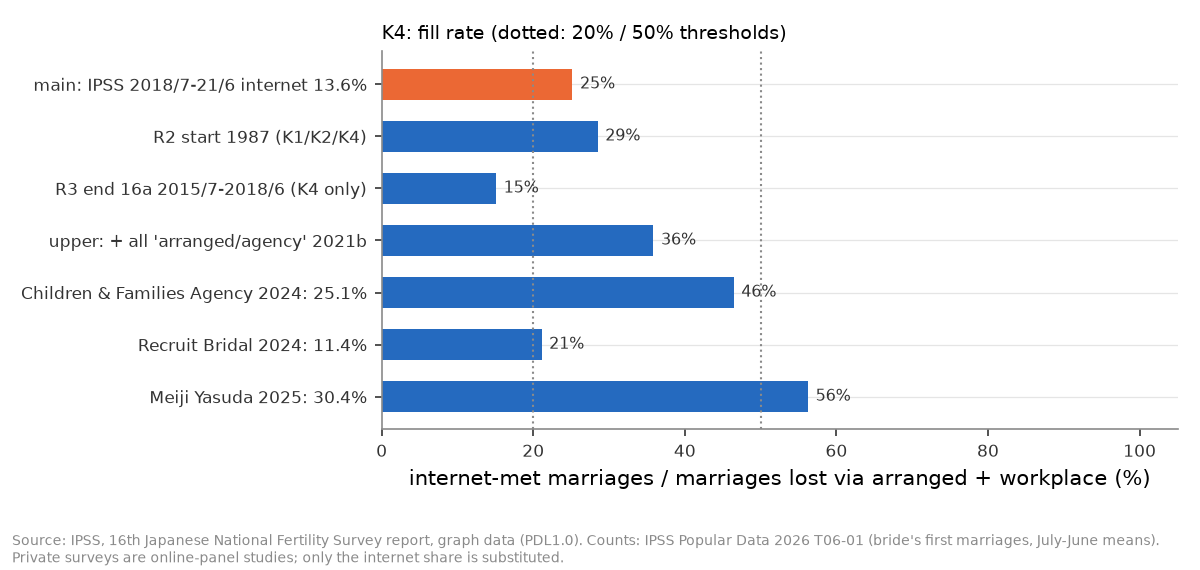
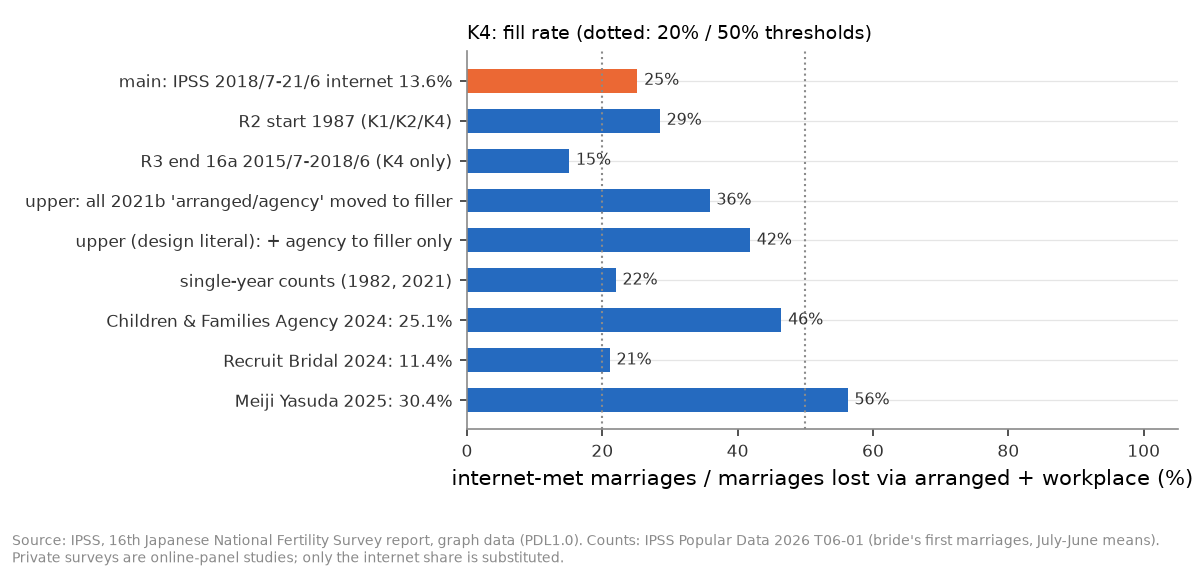
fix(growth-fertility): H12 方法論レビュー対応（K3 判定不能、到達型と主因の区別、補填率の表記と感度追加）
- K3 を「判定不能（第 2 条件は不成立、第 1 条件は測定不能）」に変更
- 要約・判定節で事前基準上の成立と「主／従」（文型の機械的出力）を区別、E1 の交際を望まない層の増加を明記
- 補填率を「約 4 分の 1（25%）」に（wari を最近傍の分数＋% に変更）
- 相談所込み上限の design 字義版 41.8%、単年値版 22.0% を追加、16a 終点で判定が変わる点と CI 未算出を判定節に
- めぐり会わないの割合の低下、民間調査の原典（未確認）を記録

Changed region(s): [[0.0308, 0.1193, 0.9558, 0.8053], [0.3392, 0.7754, 1.0, 0.8649], [0.3083, 0.0298, 0.74, 0.0895]]

diff --git a/themes/growth-fertility/src/theme_growth_fertility/analysis/a20261018_h12_why_marriage_left.py b/themes/growth-fertility/src/theme_growth_fertility/analysis/a20261018_h12_why_marriage_left.py
@@ -114,6 +114,7 @@ EXTERNAL = (
 )
 TYPE_JA = {"will": "意思の低下", "reach": "到達の失敗", "women": "女性側の評価の低下"}
 TYPE_ORDER = ("will", "reach", "women")
+K3_UNDETERMINED = "判定不能（第 2 条件は不成立、第 1 条件「結婚に利点がある」は測定不能）"
 
 
 # ---------------------------------------------------------------- pure helpers (tested)
@@ -196,9 +197,22 @@ def rank_types(sizes: Mapping[str, float], established: Iterable[str]) -> list[t
     return sorted(rows, key=lambda kv: (-kv[1], TYPE_ORDER.index(kv[0])))
 
 
+FRACTIONS = (
+    (1 / 10, "10 分の 1"),
+    (1 / 5, "5 分の 1"),
+    (1 / 4, "4 分の 1"),
+    (1 / 3, "3 分の 1"),
+    (1 / 2, "半分"),
+    (2 / 3, "3 分の 2"),
+    (3 / 4, "4 分の 3"),
+    (1.0, "全部"),
+)
+
+
 def wari(rate: float) -> str:
-    n = round(rate * 10)
-    return "1 割未満" if n == 0 else f"約 {n} 割"
+    """Nearest simple fraction with the percentage, e.g. 0.252 -> '約 4 分の 1（25%）'."""
+    _, name = min(FRACTIONS, key=lambda f: abs(f[0] - rate))
+    return f"約 {name}（{100 * rate:.0f}%）"
 
 
 def final_stance(ranked: Sequence[tuple[str, float]], rate: float) -> str:
@@ -325,13 +339,20 @@ def k4(
     *,
     net_override: float | None = None,
     upper: bool = False,
+    upper_numerator_only: bool = False,
+    single_year: bool = False,
 ) -> Fill:
     c0 = couples(att, *base)
     c1 = couples(att, *end)
     y0, y1 = PERIOD_YEARS[(str(base[0]), base[1])], PERIOD_YEARS[(str(end[0]), end[1])]
-    n0, n1 = period_mean(n_by_year, *y0), period_mean(n_by_year, *y1)
+    if single_year:  # survey years' single-year counts instead of July-June means
+        n0, n1 = n_by_year[y0[1]], n_by_year[y1[1]]
+    else:
+        n0, n1 = period_mean(n_by_year, *y0), period_mean(n_by_year, *y1)
     net1 = (net_override if net_override is not None else c1.get(NET, 0.0)) / 100
     moved = c1[OMIAI] / 100 if upper else 0.0
+    if upper_numerator_only:  # design literal: add agency (all 2021b omiai) to the filler only
+        net1 += c1[OMIAI] / 100
     return fill(sum(c0[k] for k in LOST) / 100, sum(c1[k] for k in LOST) / 100, net1, n0, n1, moved)
 
 
@@ -441,7 +462,11 @@ def compute(d: Mapping[str, pl.DataFrame]) -> H12Result:
             k4(att, n, (Y0, ""), (Y1, P16B), upper=True),
         ),
     ]
-    sens: list[tuple[str, Fill]] = [("upper (agency incl.)", robust[3].k4)]
+    sens: list[tuple[str, Fill]] = [
+        ("upper (agency incl.)", robust[3].k4),
+        ("upper literal", k4(att, n, (Y0, ""), (Y1, P16B), upper_numerator_only=True)),
+        ("single-year counts", k4(att, n, (Y0, ""), (Y1, P16B), single_year=True)),
+    ]
     for key, _label, share in EXTERNAL:
         sens.append((key, k4(att, n, (Y0, ""), (Y1, P16B), net_override=share)))
     return H12Result(main, robust, sens, n)
@@ -618,6 +643,8 @@ def section_k3(d: Mapping[str, pl.DataFrame], res: H12Result) -> None:
 
 
 def section_k4(res: H12Result) -> None:
+    status = "成立" if "women" in res.main.types else K3_UNDETERMINED
+    print(f"\n  K3 status: {status}")
     print("\n== K4 fill rate ==")
     f = res.main.k4
     print(f"  wife first marriages, annual mean: base {f.n0:,.0f}, 2021b {f.n1:,.0f}")
@@ -863,7 +890,9 @@ def fig_k4(res: H12Result, path: Path) -> None:
     items = [("main: IPSS 2018/7-21/6 internet 13.6%", res.main.k4.rate)]
     items += [(r.label, r.k4.rate) for r in res.robust if r.label.startswith(("R2", "R3"))]
     labels = {
-        "upper (agency incl.)": "upper: + all 'arranged/agency' 2021b",
+        "upper (agency incl.)": "upper: all 2021b 'arranged/agency' moved to filler",
+        "upper literal": "upper (design literal): + agency to filler only",
+        "single-year counts": "single-year counts (1982, 2021)",
         "cfa2024": "Children & Families Agency 2024: 25.1%",
         "recruit2024": "Recruit Bridal 2024: 11.4%",
         "meiji2025": "Meiji Yasuda 2025: 30.4%",

diff --git a/themes/growth-fertility/src/theme_growth_fertility/analysis/s20261018_h12_summary.py b/themes/growth-fertility/src/theme_growth_fertility/analysis/s20261018_h12_summary.py
@@ -278,7 +278,8 @@ def fig5_fill(res: h12.H12Result, path: Path) -> list[tuple[str, float]]:
     sens = dict(res.k4_sens)
     items = [
         ("本体（出生動向基本調査、ネット 13.6%）", res.main.k4.rate),
-        ("上限（見合い・相談所を全部ネット側へ）", sens["upper (agency incl.)"].rate),
+        ("上限（見合い・相談所を損失から除き補填へ）", sens["upper (agency incl.)"].rate),
+        ("上限（見合い・相談所を補填に足すだけ）", sens["upper literal"].rate),
         ("こども家庭庁 2024（アプリ 25.1%）", sens["cfa2024"].rate),
         ("リクルート 2024（ネット系 11.4%）", sens["recruit2024"].rate),
         ("明治安田 2025（アプリ 30.4%）", sens["meiji2025"].rate),
@@ -297,7 +298,7 @@ def fig5_fill(res: h12.H12Result, path: Path) -> list[tuple[str, float]]:
     ax.set_xlabel("ネットで出会った結婚 ÷ 見合い・職場経由で減った結婚（年あたり件数、%）")
     base._style(ax)
     fig.suptitle(
-        "見合い・職場で減った結婚のうち、ネットが補ったのは 2〜5 割（本体は 25%）",
+        "見合い・職場で減った結婚のうち、ネットが補ったのは約 4 分の 1（25%）",
         fontsize=11,
         x=0.01,
         ha="left",
@@ -379,7 +380,8 @@ def run(data_dir: Path, fig_dir: Path) -> list[tuple[str, str]]:
         (
             "h12s05_fill_rate.png",
             f"見合い・職場経由で減った結婚は年 {m.loss:,.0f} 件、ネット経由は年 {m.filled:,.0f} 件で、補填率は "  # noqa: E501
-            f"{100 * m.rate:.0f}%（事前の基準で「部分的」）。感度の 4 版は "
+            f"{h12.wari(m.rate)}（事前の基準で「部分的」。CI は未算出）。"
+            "終点を 2015/7〜18/6 にすると 15% で「補われていない」に変わる。感度の各版は "
             + "、".join(f"{100 * r:.0f}%" for _, r in items[1:])
             + "。",
         )

diff --git a/themes/growth-fertility/tests/test_analysis_h12.py b/themes/growth-fertility/tests/test_analysis_h12.py
@@ -69,7 +69,7 @@ def test_rank_and_final_stance() -> None:
     s = h12.final_stance(h12.rank_types({"reach": 34.1, "will": 9.9}, {"reach"}), 0.27)
     assert s.startswith("結婚が外れた背景は到達の失敗が主で（変化幅 34.1 ポイント）")
     assert "意思の低下・女性側の評価の低下は従である" in s
-    assert s.endswith("ネット経由が補ったのは約 3 割である")
+    assert s.endswith("ネット経由が補ったのは約 4 分の 1（27%）である")
     none = h12.final_stance([], 0.1)
     assert none.startswith("意思も到達も評価も、測った指標では大きく動いていない")
 
@@ -79,3 +79,8 @@ def test_pooled_share() -> None:
     p, lo, hi = h12.pooled(df)
     assert p == pytest.approx(70.0)
     assert lo < 70 < hi
+
+
+def test_wari_nearest_fraction() -> None:
+    assert h12.wari(0.252) == "約 4 分の 1（25%）"
+    assert h12.wari(0.56) == "約 半分（56%）"

diff --git a/themes/growth-fertility/reports/2026-10-18-h12-why-marriage-left.md b/themes/growth-fertility/reports/2026-10-18-h12-why-marriage-left.md
@@ -1,11 +1,11 @@
 # H12: 日本で「結婚という選択」が外れた背景は何か。アプリは仲介の消失を補っているか（2026-10-18, theme: growth-fertility）
 
 ## 要約（5 行）
-- 事前の判定は**到達失敗型だけが成立**した。最終スタンス（事前の文型）は「結婚が外れた背景は到達の失敗が主で（変化幅 34.1 ポイント）、意思の低下・女性側の評価の低下は従である。見合い・職場経由で失われた結婚のうち、ネット経由が補ったのは約 3 割である」。
+- 事前の基準の上で成立したのは**到達失敗型だけ**（意思低下型は不成立、女性側型は**判定不能**）。以下の最終スタンスは事前の文型に結果を機械的に入れたもので、「主／従」は文型の出力であり、到達の失敗が主因であることを示したものではない。「結婚が外れた背景は到達の失敗が主で（変化幅 34.1 ポイント）、意思の低下・女性側の評価の低下は従である。見合い・職場経由で失われた結婚のうち、ネット経由が補ったのは約 4 分の 1（25%）である」。ただし女性側の評価は主指標を測れておらず判定不能、意思は男性で基準超・女性で基準に 0.1 ポイント届かずの境目。
 - K1 意思: 「いずれ結婚するつもり」（未婚 18–34 歳）は男性 95.9 → 81.4%（−14.5）、女性 94.2 → 84.3%（−9.9）。どちらも 95% CI は重ならないが、**女性は事前の基準（10 ポイント）に 0.1 ポイント届かず**、意思低下型は不成立。「一生結婚するつもりはない」は男性 2.3 → 17.3%、女性 4.1 → 14.6% に増えた。NHK「結婚するのが当然」（16 歳以上の一般人口）は 45 → 27%（1993 → 2018）。基準の境目の結果なので、「意思は保たれている」とは書かない。
-- K2 到達: 交際相手なしは男性 36.8 → 72.1%（+35.3）、女性 30.1 → 64.2%（+34.1）。独身の理由の 1 位は 1992 年から毎回「適当な相手にまだめぐり会わない」（2021 年 25–34 歳で男 43.3%・女 48.1%）。夫婦の出会いのうち見合い＋職場は 54.7 → 30.4%（−24.3）。**ただし探索的な内訳（E1）では、2010 → 2021 年に「交際相手なし・交際を望む」は男 32.6 → 31.5%、女 25.7 → 24.6% とほぼ横ばいで、増えたのは「交際を望まない」（男 27.6 → 33.5、女 22.6 → 34.1）。** 交際相手なしの増加には、到達の失敗だけでなく意思の側の変化が含まれる。
-- K3 女性側: 結婚の利点に「経済的に余裕がもてる」を挙げる女性は 7.0 → 21.0%（1987 → 2021）に**上がった**ので不成立。「結婚に利点がある」割合（利点なしの補数）は、グラフデータに「利点はない」の選択肢が無いため**測定できなかった**。
-- K4 補填率: 見合い・職場経由の結婚は年 249,916 件減り、ネット経由は年 62,899 件で、補填率は **25%（部分的）**。感度は 21〜56%（明治安田の 30.4% を代入した版だけ「補われている」）。終点を 2015/7–2018/6 にすると 15%（補われていない）に下がる。すべて記述統計の比較で、因果効果ではない。
+- K2 到達: 交際相手なしは男性 36.8 → 72.1%（+35.3）、女性 30.1 → 64.2%（+34.1）。独身の理由の 1 位は 1992 年から毎回「適当な相手にまだめぐり会わない」（2021 年 25–34 歳で男 43.3%・女 48.1%）。夫婦の出会いのうち見合い＋職場は 54.7 → 30.4%（−24.3）。**ただし探索的な内訳（E1）では、2010 → 2021 年に「交際相手なし・交際を望む」は男 32.6 → 31.5%、女 25.7 → 24.6% とほぼ横ばいで、増えたのは「交際を望まない」（男 27.6 → 33.5、女 22.6 → 34.1）。** **主指標（交際相手なし）の 2010 年以降の増加は交際を望まない層の増加で、到達の失敗と意思の変化は区別できない。**「到達失敗型が事前基準上成立した」ことと「到達の失敗が主である」ことは別で、後者は示していない。「めぐり会わない」の割合自体も 1992 → 2021 に男 53.5 → 43.3、女 55.3 → 48.1 と下がった。
+- K3 女性側: 結婚の利点に「経済的に余裕がもてる」を挙げる女性は 7.0 → 21.0%（1987 → 2021）に**上がった**ので第 2 条件は不成立。第 1 条件の「結婚に利点がある」割合（利点なしの補数）は、グラフデータに「利点はない」の選択肢が無いため**測定できなかった**。K3 は**判定不能**（第 2 条件は不成立、第 1 条件は測定不能）。
+- K4 補填率: 見合い・職場経由の結婚は年 249,916 件減り、ネット経由は年 62,899 件で、補填率は **約 4 分の 1（25%、部分的。CI は未算出）**。感度は 21〜56%（相談所込み上限は 2 通りで 35.9% と 41.8%、単年値版 22.0%。明治安田の 30.4% を代入した版だけ「補われている」）。終点を 2015/7–2018/6 にすると 15%（補われていない）に下がる。すべて記述統計の比較で、因果効果ではない。
 
 ## 問いと仮説
 `design/themes/growth-fertility.md` の「### H12（事後追加 2026-10-18）」。part6 の読み（日本の未婚化は経済条件では説明できず、「結婚という選択そのものから人々が離れた」）の背景を、3 つの読みで比べる。(a) 意思の低下、(b) 到達の失敗（出会い・仲介の消失）、(c) 女性側の評価の低下。付随して、ネット経由の結婚が見合い・職場経由の減少をどれだけ補ったか（K4）を測る。
@@ -21,7 +21,7 @@
 - 型の「変化幅」（順位と文型の X）は、判定に使う指標の男女のうち小さい方の絶対値とする（「男女とも」の条件を縛る側）。
 - 「めぐり会わない」の首位は 2021 年の 25–34 歳で男女それぞれ判定する（この設問は 1992 年から。母集団は結婚する意思のある未婚者）。
 - K4 の件数は 7 月〜6 月の期間平均（第 8 回は 1977/7–1982/6 として 1977・1982 年を半分の重み）。構成比は「不詳」を含む分母の割合をそのまま使い、第 8 回の「ネット」は 0。
-- 結婚相談所込みの上限は、2021b の「見合い結婚」（結婚相談所を含む）を全部相談所とみなして補填側へ移す（損失側からも同じ件数を除くので、補填率 = (ネット＋c)/(損失＋c)）。
+- 結婚相談所込みの上限は 2 通り併記する。(i) 2021b の「見合い結婚」（結婚相談所を含む）を全部相談所とみなして補填側へ移し、損失側からも同じ件数を除く（補填率 = (ネット＋c)/(損失＋c)、35.9%）。(ii) design の字義どおり分子（補填）にだけ加える（(ネット＋c)/損失、41.8%）。
 - 民間調査の代入版は「ネット」の構成比だけを置き換え、件数と損失は本体と同じ。
 - 25–34 歳の頑健性は 25–29・30–34 歳の度数を合算し、CI は単純無作為の近似（主仕様の CI は報告書の値）。
 
@@ -83,13 +83,15 @@ NHK「結婚するのが当然」（16 歳以上）: 全体 45 → 38 → 36 →
 
 相手の条件「経済力」を重視する女性は 33.6（1992）→ 42.0（2010）→ 36.3%（2021）、重視＋考慮は 88.7 → 91.6%。男性が相手の女性の経済力を考慮する割合は 23.3 → 43.5% に上がった。
 
-女性の「経済的に余裕」は低下ではなく上昇で、第 2 条件は満たさない。第 1 条件は測定不能。**女性側型は不成立**（測った範囲で）。女性で下がった項目は「愛情を感じている人と暮らせる」（−9.3）と「精神的な安らぎ」（−6.7）だが、事前の判定指標ではない。
+女性の「経済的に余裕」は低下ではなく上昇で、第 2 条件は満たさない。第 1 条件は測定不能。**K3 は判定不能**（第 2 条件は不成立、第 1 条件は測定不能）。女性で下がった項目は「愛情を感じている人と暮らせる」（−9.3）と「精神的な安らぎ」（−6.7）だが、事前の判定指標ではない。
 
 ### K4 補填率（`figures/h12_k4_fill_rate.png`）
 | 版 | 損失（件／年） | 補填（件／年） | 補填率 | 判定 |
 |---|---|---|---|---|
 | **本体**（5_2_2 第 8 回 → 第 16 回 b、ネット 13.6%） | 249,916 | 62,899 | **25.2%** | **部分的** |
-| 上限: 2021b の見合い（相談所を含む）9.0% を全部補填側へ | 291,540 | 104,524 | 35.9% | 部分的 |
+| 上限 (i): 2021b の見合い（相談所を含む）9.0% を損失から除き補填側へ | 291,540 | 104,524 | 35.9% | 部分的 |
+| 上限 (ii): 同 9.0% を補填にだけ加える（design の字義） | 249,916 | 104,524 | 41.8% | 部分的 |
+| 単年値（妻初婚 1982 年 704,840、2021 年 417,783） | 258,541 | 56,818 | 22.0% | 部分的 |
 | こども家庭庁 25.1% を代入 | 249,916 | 116,086 | 46.5% | 部分的 |
 | リクルート 11.4% を代入 | 249,916 | 52,724 | 21.1% | 部分的 |
 | 明治安田 30.4% を代入 | 249,916 | 140,598 | 56.3% | 補われている |
@@ -97,10 +99,12 @@ NHK「結婚するのが当然」（16 歳以上）: 全体 45 → 38 → 36 →
 件数の年平均: 1977/7–1982/6 713,920、2018/7–2021/6 462,495（妻初婚）。見合い＋職場の件数は 1982 年の年 390,514 件（54.7% × 713,920）から 2021b の年 140,598 件（30.4% × 462,495）へ減った。
 
 ### 判定
-- 成立した型: **到達の失敗のみ**（変化幅 34.1 ポイント = 交際相手なしの男女のうち小さい方）。参考の変化幅: 意思 9.9（女性。基準未満）、女性側の経済的余裕 −14.0（上昇）。
-- K4: 25.2% で **部分的**。
-- **最終スタンス（事前の文型を機械的に埋めたもの）**: 「結婚が外れた背景は到達の失敗が主で（変化幅 34.1 ポイント）、意思の低下・女性側の評価の低下は従である。見合い・職場経由で失われた結婚のうち、ネット経由が補ったのは約 3 割である」。
-- 文型の限定: (1) 「意思の低下は従」は、女性の低下 9.9 ポイントが基準 10 にわずかに届かなかったことによる。男性は −14.5 で基準を超え、「一生結婚するつもりはない」は男性で 7.5 倍、女性で 3.6 倍になった。意思の変化が小さいとは言えない。(2) 交際相手なしの増加の 2010 年以降の部分は「交際を望まない」の増加で（E1）、到達失敗型の主指標には意思の側の変化が混ざる。(3) 「女性側の評価の低下は従」は、測れた指標で女性の評価が下がっていない（経済的余裕はむしろ上がった）ことを指し、「利点がある」割合は測れていない。(4) 補填率は 25%（約 3 割は四捨五入）で、終点・代入値により 15〜56% と幅がある。
+- 事前基準の上で成立した型: **到達の失敗のみ**。意思低下型は不成立（女性 −9.9、基準 10）、女性側型は**判定不能**（第 2 条件は不成立、第 1 条件「結婚に利点がある」は測定不能）。
+- 変化幅: 到達 34.1 ポイント（交際相手なしの男女のうち小さい方）。参考の変化幅: 意思 9.9（女性。基準未満）、女性側の経済的余裕 −14.0（上昇）。
+- K4: 25.2% で **部分的**。ただし終点を第 16 回 a（2015/7–2018/6）にすると 15.1% となり「補われていない」に判定が変わる。補填率の CI は算出していない。
+- **最終スタンス（事前の文型を機械的に埋めたもの）**: 「結婚が外れた背景は到達の失敗が主で（変化幅 34.1 ポイント）、意思の低下・女性側の評価の低下は従である。見合い・職場経由で失われた結婚のうち、ネット経由が補ったのは約 4 分の 1（25%）である」。
+- **ただし女性側の評価は主指標を測れておらず判定不能、意思は男性で基準超・女性で基準に 0.1 ポイント届かずの境目。**「主／従」は文型の機械的な出力で、到達失敗型が事前基準上成立したことと、到達の失敗が結婚の減少の主因であることは別である（後者は示していない）。主指標（交際相手なし）の 2010 年以降の増加は交際を望まない層の増加で、到達の失敗と意思の変化は区別できない。
+- 文型の限定: (1) 「意思の低下は従」は、女性の低下 9.9 ポイントが基準 10 にわずかに届かなかったことによる。男性は −14.5 で基準を超え、「一生結婚するつもりはない」は男性で 7.5 倍、女性で 3.6 倍になった。意思の変化が小さいとは言えない。(2) 交際相手なしの増加の 2010 年以降の部分は「交際を望まない」の増加で（E1）、到達失敗型の主指標には意思の側の変化が混ざる。(3) 「女性側の評価の低下は従」は、測れた指標で女性の評価が下がっていない（経済的余裕はむしろ上がった）ことを指し、「利点がある」割合は測れていない。(4) 補填率は 25%（約 4 分の 1）で、終点・代入値により 15〜56% と幅がある。(5) 「めぐり会わない」は首位だが、割合は 1992 → 2021 に男 53.5 → 43.3、女 55.3 → 48.1 と下がった。
 
 ## 頑健性（事前リストを全部）
 | 仕様 | K1（男 / 女） | K2 交際相手なし（男 / 女） | K4 補填率 | 成立した型・K4 判定 |
@@ -110,7 +114,8 @@ NHK「結婚するのが当然」（16 歳以上）: 全体 45 → 38 → 36 →
 | R2 第 9 回（1987）起点 | −10.4 / −8.6 | +23.5 / +24.7 | 28.5% | 到達のみ・部分的 |
 | R3 第 16 回 a（2015/7–2018/6）終点（K4 のみ。K1〜K3 に a/b の区別はない） | 主と同じ | 主と同じ | **15.1%** | 到達のみ・**補われていない** |
 | R4 NHK を一般人口の補強として併記 | 「結婚するのが当然」45 → 27%（男 51 → 35、女 39 → 20） | — | — | 判定には使わない |
-| R5 結婚相談所込みの上限 | 主と同じ | 主と同じ | 35.9% | 到達のみ・部分的 |
+| R5 結婚相談所込みの上限 (i) 損失から除き補填へ | 主と同じ | 主と同じ | 35.9% | 到達のみ・部分的 |
+| R5 結婚相談所込みの上限 (ii) design 字義どおり補填にだけ加える | 主と同じ | 主と同じ | 41.8% | 到達のみ・部分的 |
 
 型の判定（到達失敗型のみ）はどの仕様でも変わらない。**K4 の判定は終点を 2015/7–2018/6 にすると「補われていない」に変わる**（ネット 6.0%、見合い＋職場 36.8%）。2018/7–2021/6 はコロナ下の婚姻減の時期で、構成比の上昇は件数の増加と同じではない（IPSS 注記）。ネットの比重が 3 年で倍になった時期の端点なので、補填率は終点の選び方に強く依存する。25–34 歳に限ると女性の意思の低下は −5.1 で、意思低下型からさらに遠くなる。
 
@@ -123,6 +128,7 @@ NHK「結婚するのが当然」（16 歳以上）: 全体 45 → 38 → 36 →
 - **質問文・選択肢の変更**: 「ネットで」は第 16 回で新設（第 11〜15 回の「メディアを通じて」は自由記述の事後分類で、ネット経由の一部はそこや「友人を通じて」等に入っていた可能性がある）。第 16 回の「見合い結婚」は結婚相談所（オンラインを含む）を含む。「アルバイトで」は第 10 回から。交際希望の設問は第 14 回（2010）から。
 - **社会的望ましさ**: 結婚の意思・利点・独身の理由は、規範に沿った回答や答えやすい理由（「めぐり会わない」）を含みうる。「めぐり会わない」が首位であることは、出会いの機会が実際に減ったことの直接の証拠ではない。
 - **測れなかった指標**: 「結婚に利点がある」（利点なしの補数）はグラフデータに無く、K3 の第 1 条件は判定していない。女性側の評価の低下が無かったとは言えず、「測った指標では下がっていない」までしか言えない。
+- **民間調査の原典**: こども家庭庁「若者のライフデザインや出会いに関する意識調査」（2024、https://www.cfa.go.jp/ 内の公表ページ）、リクルートブライダル総研「婚活実態調査 2024」、明治安田生命「いい夫婦の日」に関するアンケート調査（2025）。各公表ページの URL と数値は本 PR では**未確認**（依頼文の引用値を使用）。
 - **民間調査の標本**: リクルート・明治安田（とこども家庭庁の調査も）はインターネット・モニター調査で、出生動向基本調査（無作為抽出）と標本設計が違い、アプリ利用者が多く含まれる偏りがありうる。対象期間（直近 5 年婚 / 2023 年婚姻者 / 1 年以内婚）と定義（アプリ / ネット系サービス）も 5_2_2 と違う。代入値は依頼文に示された引用で、本 PR では原典を再確認していない。
 - **K4 の構成**: 構成比 × 件数は、各期間の夫婦の構成が初婚件数全体に当てはまると仮定する（5_2_2 は妻 50 歳未満の初婚どうし等の調査対象に限られ、再婚を含まない）。損失は「見合い・職場で結婚したはずの人」の数ではなく経路別件数の差で、補填率は置き換えの割合ではない。2021b はコロナ下の 3 年で、1 回の調査の標本（b は 400 組程度、ネット 54 組）なので標本誤差が大きい（CI は算出していない）。
 - **母集団の違い**: K1〜K3 は 18–34 歳の未婚者、K4 は結婚した夫婦、NHK は 16 歳以上の一般人口。調査の間で比べた変化を同じ人々の変化として読まない。個人の行動の理由をこれらの集計から推論していない。

diff --git a/themes/growth-fertility/reports/figures/summary_h12/captions.md b/themes/growth-fertility/reports/figures/summary_h12/captions.md
@@ -10,4 +10,4 @@ NHK放送文化研究所「日本人の意識」調査（https://www.nhk.or.jp/b
 - `h12s02_no_partner.png`: 交際相手がいない未婚者は男性 36.8% → 72.1%（+35.3）、女性 30.1% → 64.2%（+34.1）。2010→2021 年に「交際を望む」はほぼ横ばいで、増えたのは「望まない」。独身の理由の 1 位は 1992 年以降毎回「適当な相手にまだめぐり会わない」（2021 年 25〜34 歳で男性 43.3%、女性 48.1%）。
 - `h12s03_benefits.png`: 結婚の利点に「経済的に余裕がもてる」を挙げる未婚女性は 1987→2021 年に 7.0% → 21.0% で、下がっていない。「子どもや家族をもてる」は男女とも上がった。女性側で結婚の評価が下がったことを示す変化は、測った指標には見られない。
 - `h12s04_meeting.png`: 結婚 5 年未満の夫婦の出会いは、見合い＋職場が 54.7%（1982 年調査）→ 30.4%（2018/7〜21/6 結婚）、ネットは 13.6%（「ネットで」は最新回で新設、見合いは結婚相談所を含む）。
-- `h12s05_fill_rate.png`: 見合い・職場経由で減った結婚は年 249,916 件、ネット経由は年 62,899 件で、補填率は 25%（事前の基準で「部分的」）。感度の 4 版は 36%、46%、21%、56%。
+- `h12s05_fill_rate.png`: 見合い・職場経由で減った結婚は年 249,916 件、ネット経由は年 62,899 件で、補填率は 約 4 分の 1（25%）（事前の基準で「部分的」。CI は未算出）。終点を 2015/7〜18/6 にすると 15% で「補われていない」に変わる。感度の各版は 36%、42%、46%、21%、56%。
